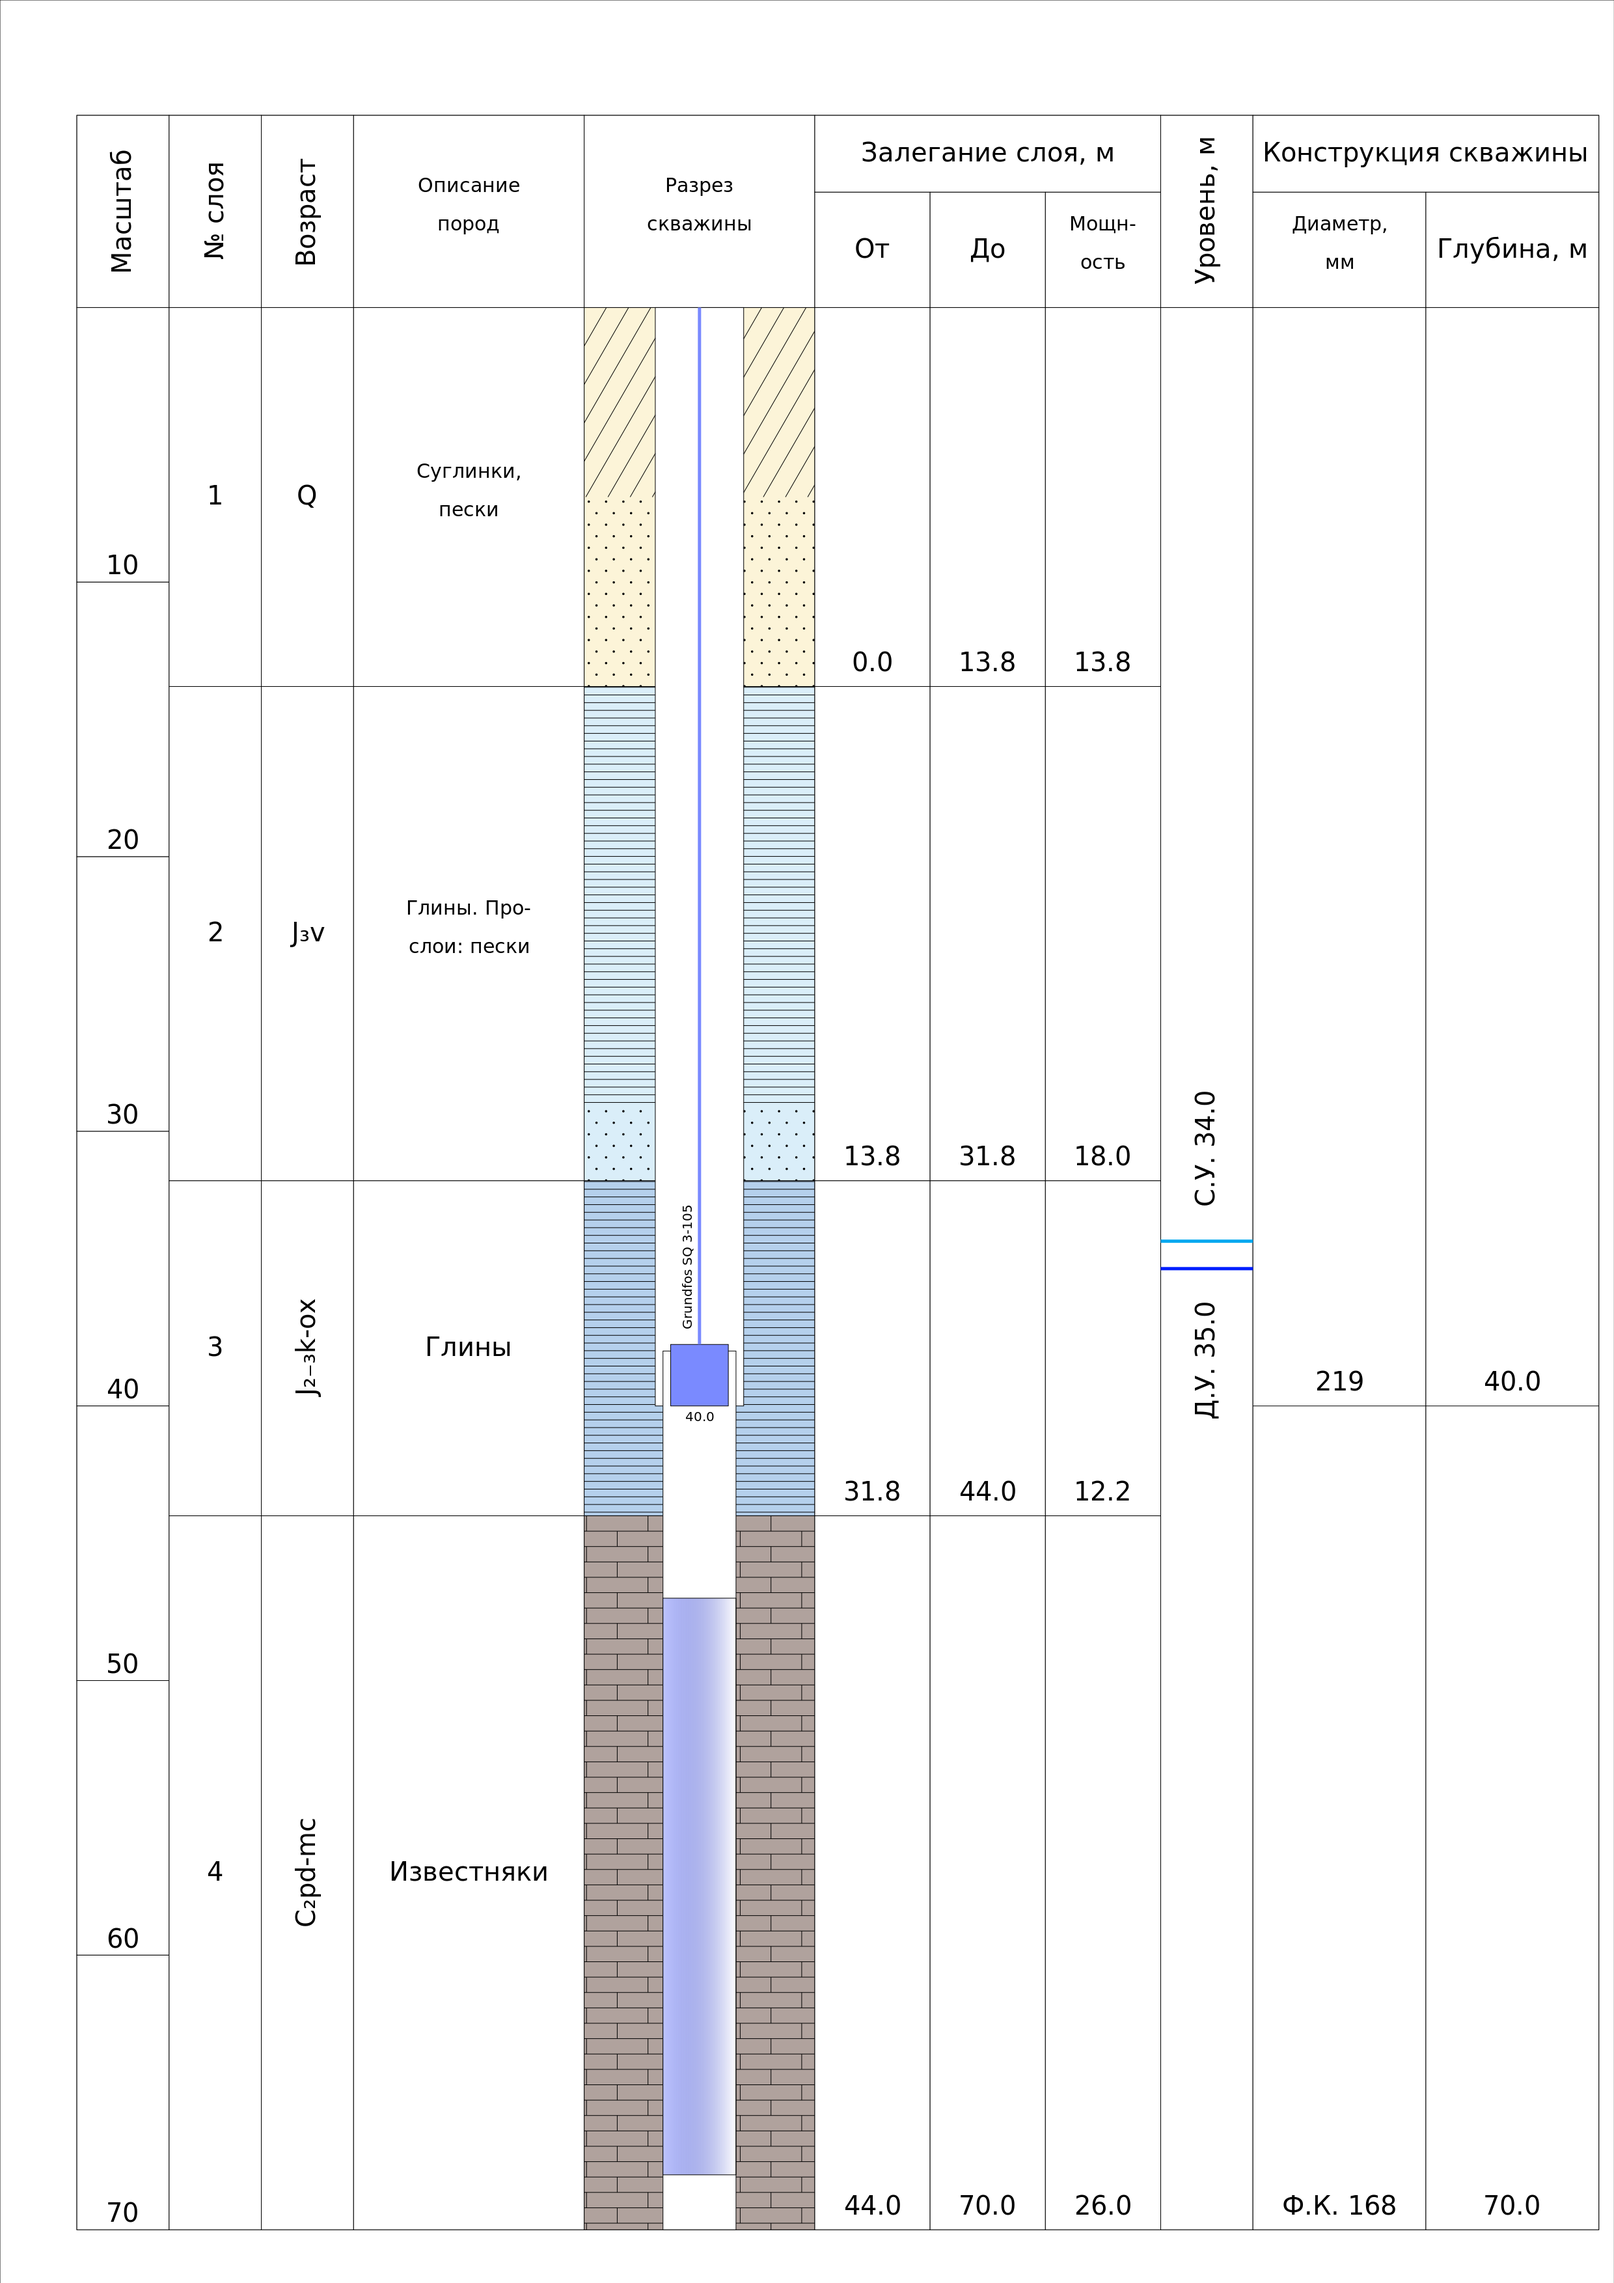
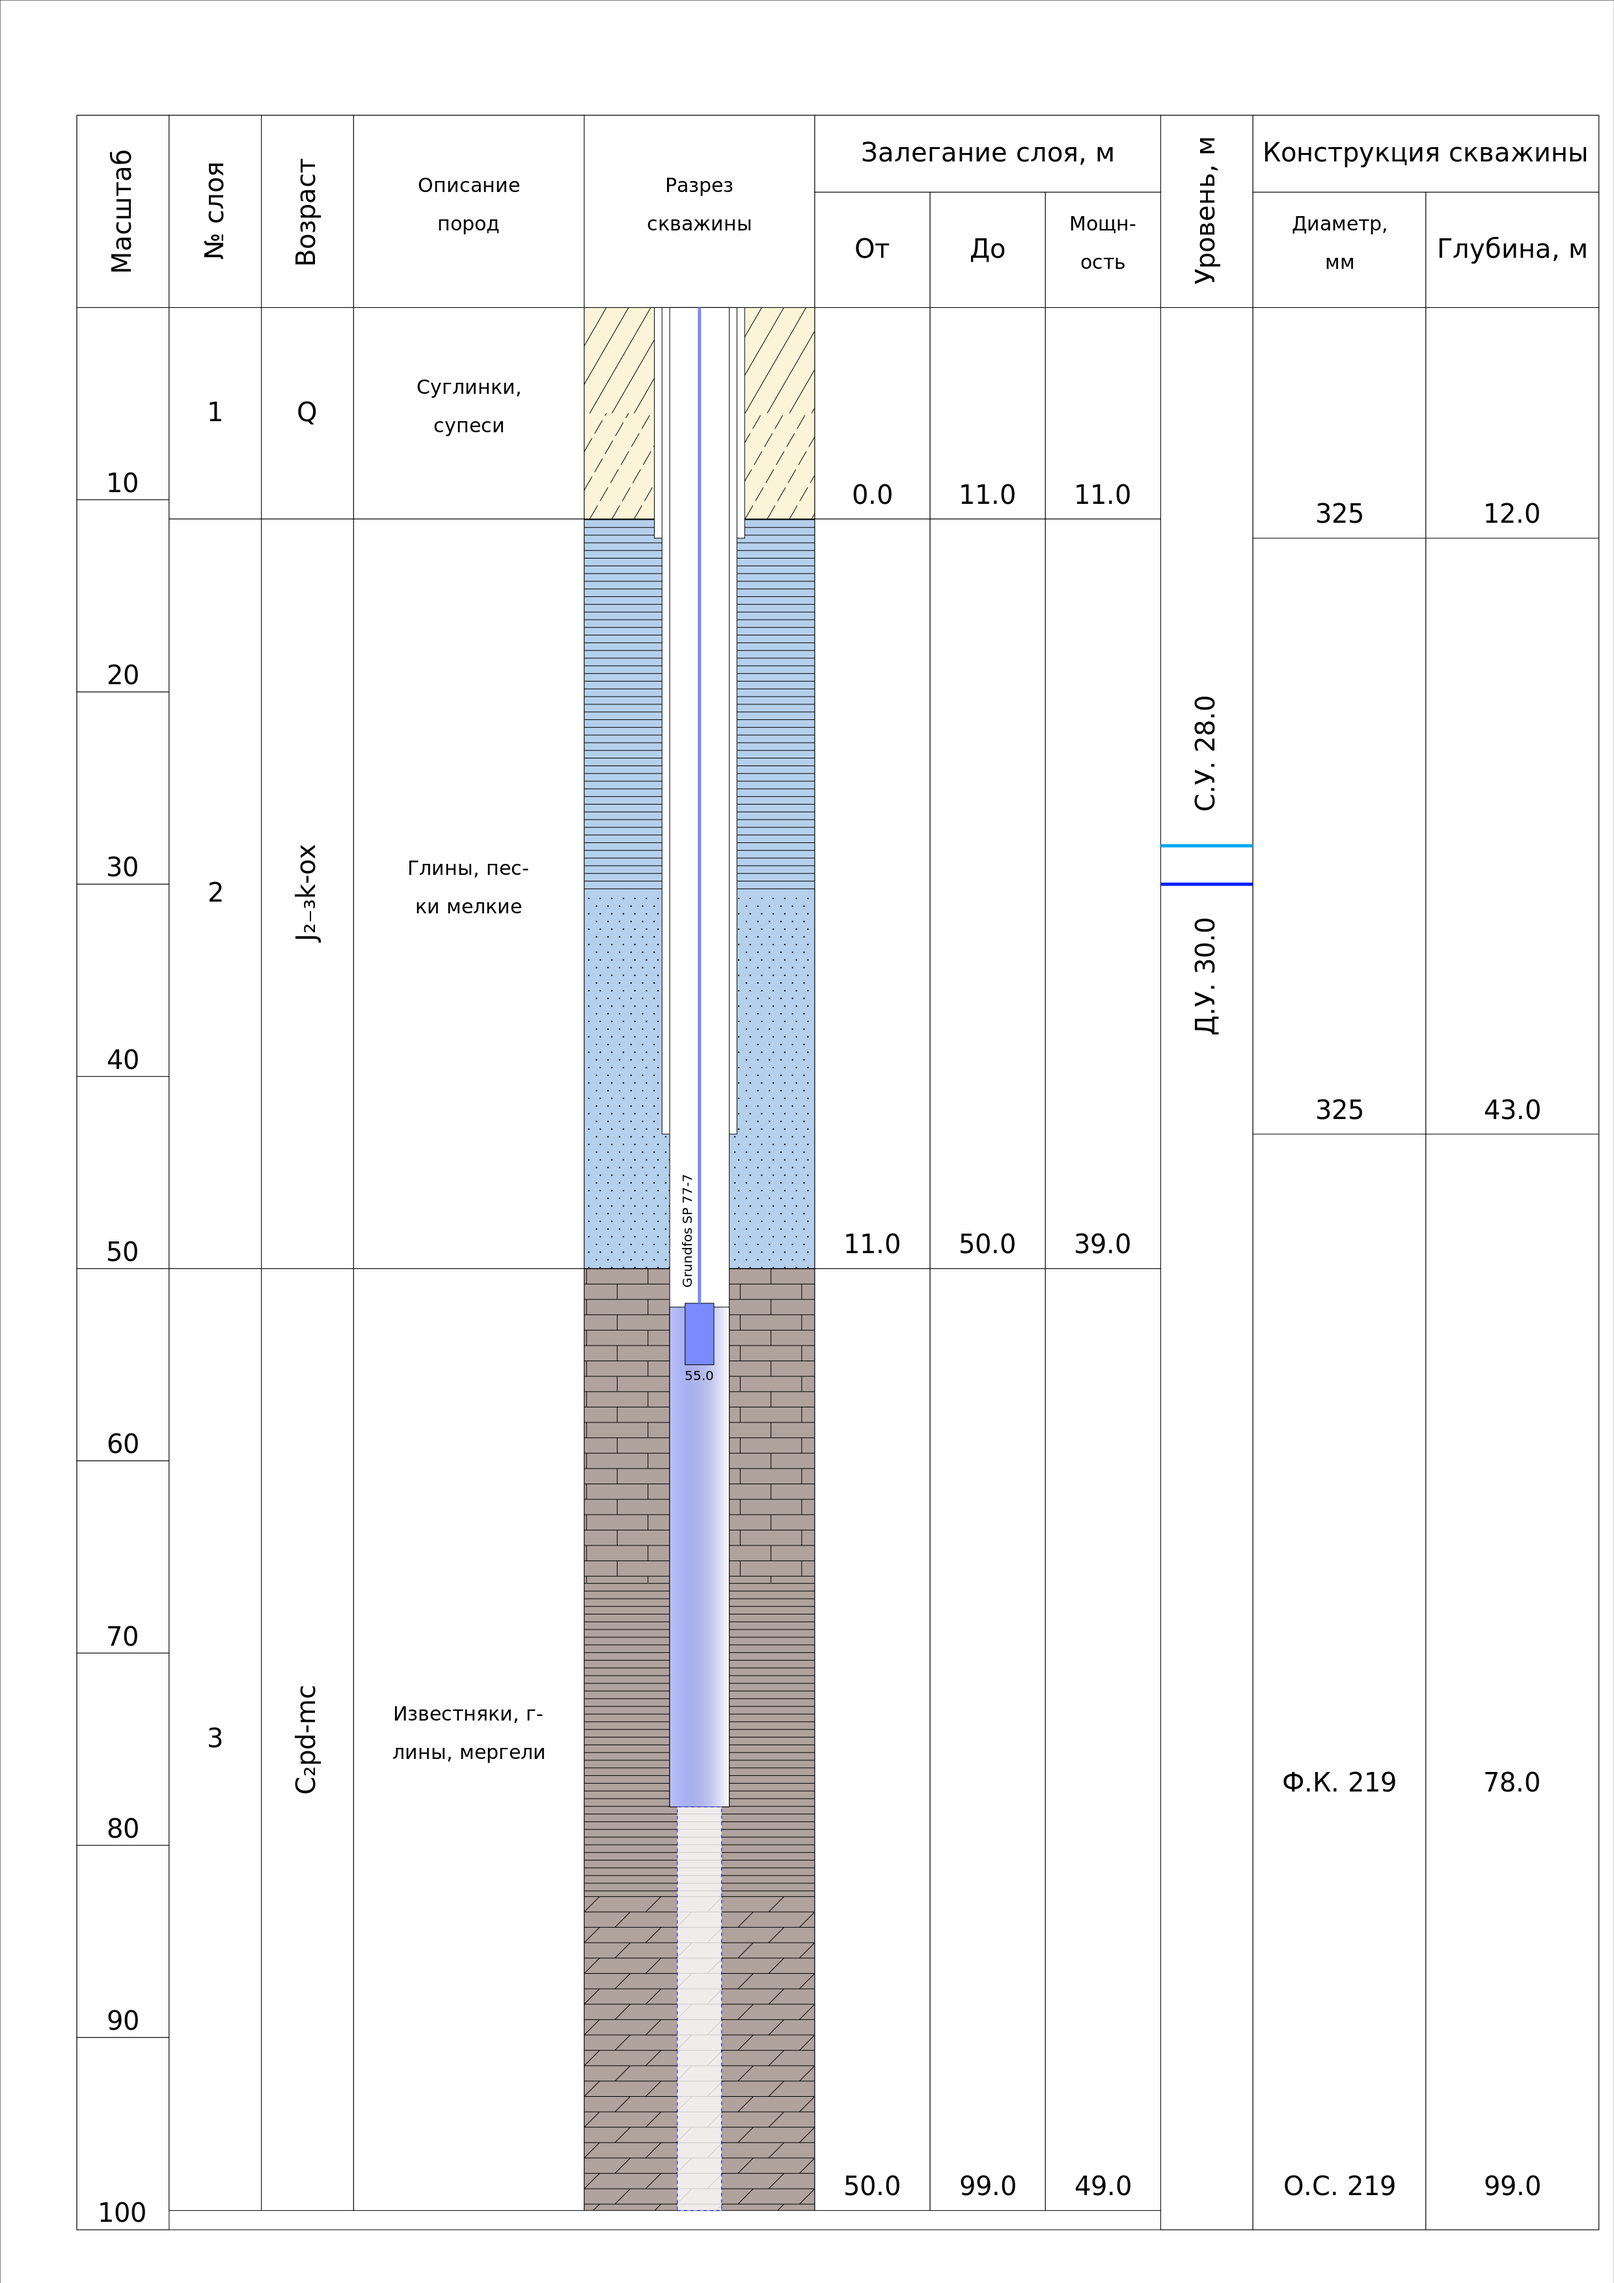
add text for geology table

diff --git a/drawing/fixtures.py b/drawing/fixtures.py
@@ -5,49 +5,53 @@ well_data_1 = {
         1: {
             "id": 1,
             "name": "Q",
-            "thick": 13.8,
-            "sediments": ("суглинки", "пески"),
+            "thick": 11.0,
+            "sediments": ("суглинки", "супеси"),
         },
         2: {
             "id": 2,
-            "name": "J3v",
-            "thick": 18.0,
-            "sediments": ("глины",),
-            "interlayers": ("пески",),
+            "name": "J2-3k-ox",
+            "thick": 39.0,
+            "sediments": ("глины", "пески мелкие"),
         },
         3: {
             "id": 3,
-            "name": "J2-3k-ox",
-            "thick": 12.2,
-            "sediments": ("глины",),
-        },
-        4: {
-            "id": 4,
             "name": "C2pd-mc",
-            "thick": 26.0,
-            "sediments": ("известняки",),
+            "thick": 49.0,
+            "sediments": ("известняки","глины", "мергели"),
         },
     },
     # данные по скважине
     "well_data": {
         "columns": {
-            1: {"id": 1, "D": 219, "from": 0.0, "till": 40.0, "type": "обсадная"},
-            2: {
-                "id": 2,
-                "D": 168,
-                "from": 38.0,
-                "till": 70.0,
+            1: {"id": 1, "D": 325, "from": 0.0, "till": 12.0, "type": "обсадная"},
+            2: {"id": 2, "D": 325, "from": 0.0, "till": 43.0, "type": "обсадная"},
+            3: {
+                "id": 3,
+                "D": 219,
+                "from": 0.0,
+                "till": 78.0,
                 "type": "фильтровая",
                 "filter": {
-                    1: {"id": 1, "from": 47.0, "till": 68.0},
+                    1: {"id": 1, "from": 52.0, "till": 78.0},
+                },
+            },
+            4: {
+                "id": 4,
+                "D": 219,
+                "from": 78.0,
+                "till": 99.0,
+                "type": "О.С.",
+                "filter": {
+                    1: {"id": 1, "from": 78.0, "till": 99.0},
                 },
             },
         },
-        "pump_type": "Grundfos SQ 3-105",
-        "pump_depth": 40.0,
-        "static_lvl": 34.0,
-        "dynamic_lvl": 35.0,
-        "well_depth": 70.0,
+        "pump_type": "Grundfos SP 77-7",
+        "pump_depth": 55.0,
+        "static_lvl": 28.0,
+        "dynamic_lvl": 30.0,
+        "well_depth": 100.0,
     },
 }
 

diff --git a/well_passport/test.py b/well_passport/test.py
@@ -1,27 +1,4 @@
-# from datetime import datetime
-from docxtpl import DocxTemplate
-import json
-
-
-def filling_pass():
-    doc = DocxTemplate("well_passport/fixtures/test_template.docx")
-    with open("well_passport/fixtures/test_data.json") as json_file:
-        data = json.load(json_file)
-        context = {
-            "col_labels": ["fruit", "vegetable", "stone", "thing"],
-            "tbl_contents": [
-                {"label": "yellow", "cols": ["banana", "capsicum", "pyrite", "taxi"]},
-                {
-                    "label": "red",
-                    "cols": ["apple", "tomato", "cinnabar", "doubledecker"],
-                },
-                {"label": "green", "cols": ["guava", "cucumber", "aventurine", "card"]},
-            ],
-        }
-
-    doc.render(context)
-    context = data
-    doc.save("well_passport/results/generated_test.docx")
-
-
-filling_pass()
+a = ["banana", "capsicum", "pyrite", "taxi"]
+print(map(str, a))
+res = ', '.join(map(str, a))
+print(res)

diff --git a/well_passport/wellpass.py b/well_passport/wellpass.py
@@ -12,13 +12,18 @@ def filling_pass():
     with open("well_passport/fixtures/data.json") as json_file:
         data = json.load(json_file)
         context.update(data["main_data"])
+    # сложение частей в единый адрес
     context["well_location"] = (
         context["region"] + ", " + context["district"] + " г.о., " + context["location"]
     )
+    # преобразование отложений в нормальный текст для описания (сюда надо добавить прослои и вкрапления)
+    for elem in data['layers']:
+        data['layers'][elem]['sediments'] = ', '.join(map(str, data['layers'][elem]['sediments']))
+    print(data['layers'])
     context["year_now"] = datetime.now().year
     context["layers"] = list(data["layers"].values())
-    print(context)
-    doc.render(context)
+    #print(context)
+    #doc.render(context)
     doc.save("well_passport/results/generated_doc.docx")
 
 
